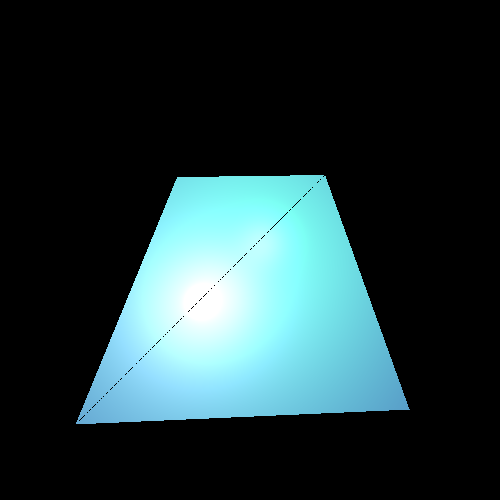
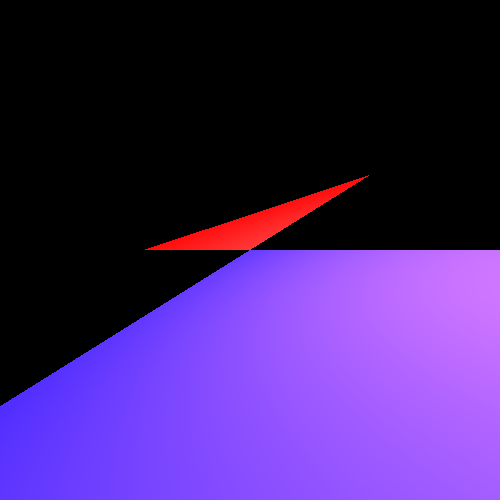
new image 2

diff --git a/unittests/myscene/MySceneTest.java b/unittests/myscene/MySceneTest.java
@@ -26,18 +26,21 @@ public class MySceneTest {
     @Test
     public void twoTriangles (){
         scene.geometries.add(
-            new Triangle(new Point(-150, -150, -115), new Point(150, -150, -135),
-                    new Point(75, 75, -150))
-                    .setMaterial(new Material().setkD(0.5).setkS(0.5).setnShininess(60)),
-            new Triangle(new Point(-150, -150, -115), new Point(-70, 70, -140), new Point(75, 75, -150))
-                    .setMaterial(new Material().setkD(0.5).setkS(0.5).setnShininess(60)));
+            new Triangle(new Point(0, 0, 0), new Point(-100, 0, -135),
+                    new Point(120, 75, -150))
+                    .setEmission(new Color(RED)).setMaterial(new Material().setkD(0.5).setkS(0.5).setnShininess(60)),
+            new Triangle(new Point(0, 0, 0), new Point(100, 0, 135), new Point(-120, -75, 150))
+                    .setEmission(new Color(BLUE)).setMaterial(new Material().setkD(0.5).setkS(0.5).setnShininess(60)));
         scene.setAmbientLight(new AmbientLight(new Color(RED), 0));
-        scene.lights.add(new SpotLight(new Color(133, 534, 200), new Point(60, 60, 100), new Vector(-1,-1,-2))
+        /*scene.lights.add(new SpotLight(new Color(133, 534, 200), new Point(60, 60, 100), new Vector(-1,-1,-2))
                 .setkL(0.0001).setkQ(0.000005));
         scene.lights.add(new PointLight(new Color(890, 456, 675), new Point(-50, -50, -50))
                 .setkL(0.0005).setkQ(0.0005));
         scene.lights.add(new DirectionalLight(new Color(121, 123, 324), new Vector(0, 0, -1)));
-
+        scene.setAmbientLight(new AmbientLight( new Color(WHITE), 0.15));*/
+        scene.lights.add(
+                new SpotLight(new Color(700, 400, 400), new Point(40, 40, 115), new Vector(-1, -1, -4)) //
+                        .setkL(4E-4).setkQ(2E-5));
         camera.renderImage();
         camera.writeToImage();
 

diff --git a/unittests/renderer/IntegrationTests.java b/unittests/renderer/IntegrationTests.java
@@ -59,19 +59,19 @@ public class IntegrationTests {
     @Test
     void testSphere() {
         final String IncorrectNumOfPoints = "ERROR: Incorrect number of intersection points at Sphere";
-        Sphere sphere = new Sphere(new Point(0, 0, -3), 1);
+        Sphere sphere = new Sphere(1,new Point(0, 0, -3));
         // TC01: The sphere is after the view plane (2 points)
         assertEquals(2, countOfIntersection(sphere, camera, 3, 3), IncorrectNumOfPoints);
         // TC02: The sphere contains the view plane (18 points)
-        assertEquals(18, countOfIntersection(new Sphere(new Point(0, 0, -2.5), 2.5),
+        assertEquals(18, countOfIntersection(new Sphere(2,new Point(0, 0, -2.5)),
                 cameraBuilder.setLocation(new Point(0, 0, 0.5)).build(), 3, 3), IncorrectNumOfPoints);
         // TC03: The sphere intersects with the view plane (10 points)
-        assertEquals(10, countOfIntersection(new Sphere(new Point(0, 0, -2), 2),
+        assertEquals(10, countOfIntersection(new Sphere(2,new Point(0, 0, -2)),
                 cameraBuilder.setLocation(new Point(0, 0, 0.5)).build(), 3, 3), IncorrectNumOfPoints);
         // TC04: The sphere contains the camera (9 points)
-        assertEquals(9, countOfIntersection(new Sphere(new Point(0, 0, -1), 4), camera, 3, 3), IncorrectNumOfPoints);
+        assertEquals(9, countOfIntersection(new Sphere(4,new Point(0, 0, -1)), camera, 3, 3), IncorrectNumOfPoints);
         // TC05: The sphere is behind the camera (0 points)
-        assertEquals(0, countOfIntersection(new Sphere(new Point(0, 0, 1), 0.5), camera, 3, 3), IncorrectNumOfPoints);
+        assertEquals(0, countOfIntersection(new Sphere(0.5,new Point(0, 0, 1)), camera, 3, 3), IncorrectNumOfPoints);
     }
 
     /**
